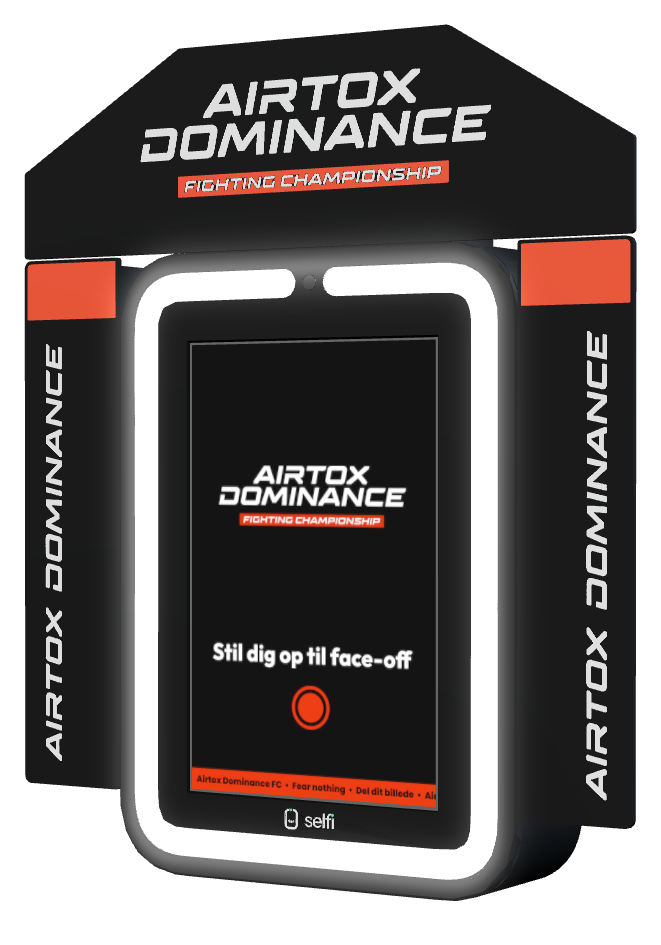
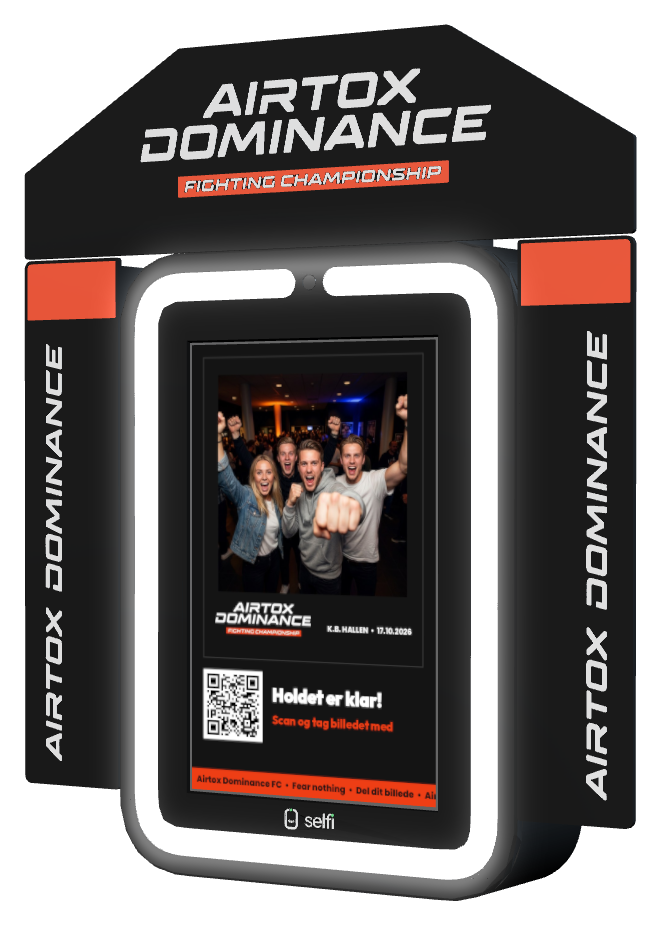
Airtox Dominance-katalog: boksen viser eksempelbillederne på skærmen
Forsiden viser face-off-billedet på boksens skærm, og de to skrå
visninger på 3D-siden viser fighterkortet og stævnebilledet. Billederne
er renderet fra 3D-modellen af gen 2-boksen med en resultatskærm
(foto i rammen + QR-kode) som skærmtekstur.

Claude-Session: https://claude.ai/code/session_01VuSBLiUkNPMtRaJzHJKxsB

Changed region(s): [[0.3026, 0.3989, 0.6354, 0.7979]]

diff --git a/web/app/erhverv/airtox-dominance/page.tsx b/web/app/erhverv/airtox-dominance/page.tsx
@@ -116,7 +116,7 @@ export default function AirtoxDominanceKatalog() {
             <span className="kat-kicker">Forslag · 2026/27</span>
           </div>
           {/* eslint-disable-next-line @next/next/no-img-element */}
-          <img className="kat-box kat-glow" src={`${IMG}/boks-airtox-dominance.png`} alt="Selfi Boks i sort med Airtox Dominance-logoet på en ottekantet top og to burstolper med orange hætter på siderne" style={{ width: 460, marginTop: 4 }} />
+          <img className="kat-box kat-glow" src={`${IMG}/boks-airtox-dominance-foto.png`} alt="Selfi Boks i sort med Airtox Dominance-logoet på en ottekantet top og to burstolper med orange hætter. Skærmen viser et face-off-billede i Airtox-rammen med en QR-kode" style={{ width: 460, marginTop: 4 }} />
           <h1 className="kat-center">Fansene i ringen</h1>
           <p className="kat-lede kat-center">Et udkast til Airtox Dominance: en fotoboks i ligaens design i hallen og i klubberne, der tager billeder og videoer af fansene og sætter ADFC og Airtox på alt, der deles.</p>
           <Band />
@@ -230,9 +230,9 @@ export default function AirtoxDominanceKatalog() {
           </div>
           <div className="kat-angles">
             {/* eslint-disable-next-line @next/next/no-img-element */}
-            <img className="kat-box" src={`${IMG}/boks-airtox-dominance-skraa-venstre.png`} alt="Airtox Dominance-boksen set skråt fra venstre med burstolpen forrest" />
+            <img className="kat-box" src={`${IMG}/boks-airtox-dominance-skraa-venstre.png`} alt="Airtox Dominance-boksen set skråt fra venstre. Skærmen viser et fighterkort i sort/hvid" />
             {/* eslint-disable-next-line @next/next/no-img-element */}
-            <img className="kat-box" src={`${IMG}/boks-airtox-dominance-skraa-hoejre.png`} alt="Airtox Dominance-boksen set skråt fra højre med burstolpen forrest" />
+            <img className="kat-box" src={`${IMG}/boks-airtox-dominance-skraa-hoejre.png`} alt="Airtox Dominance-boksen set skråt fra højre. Skærmen viser et gruppebillede fra stævnet" />
           </div>
           <Band />
           <Folio n={6} />
